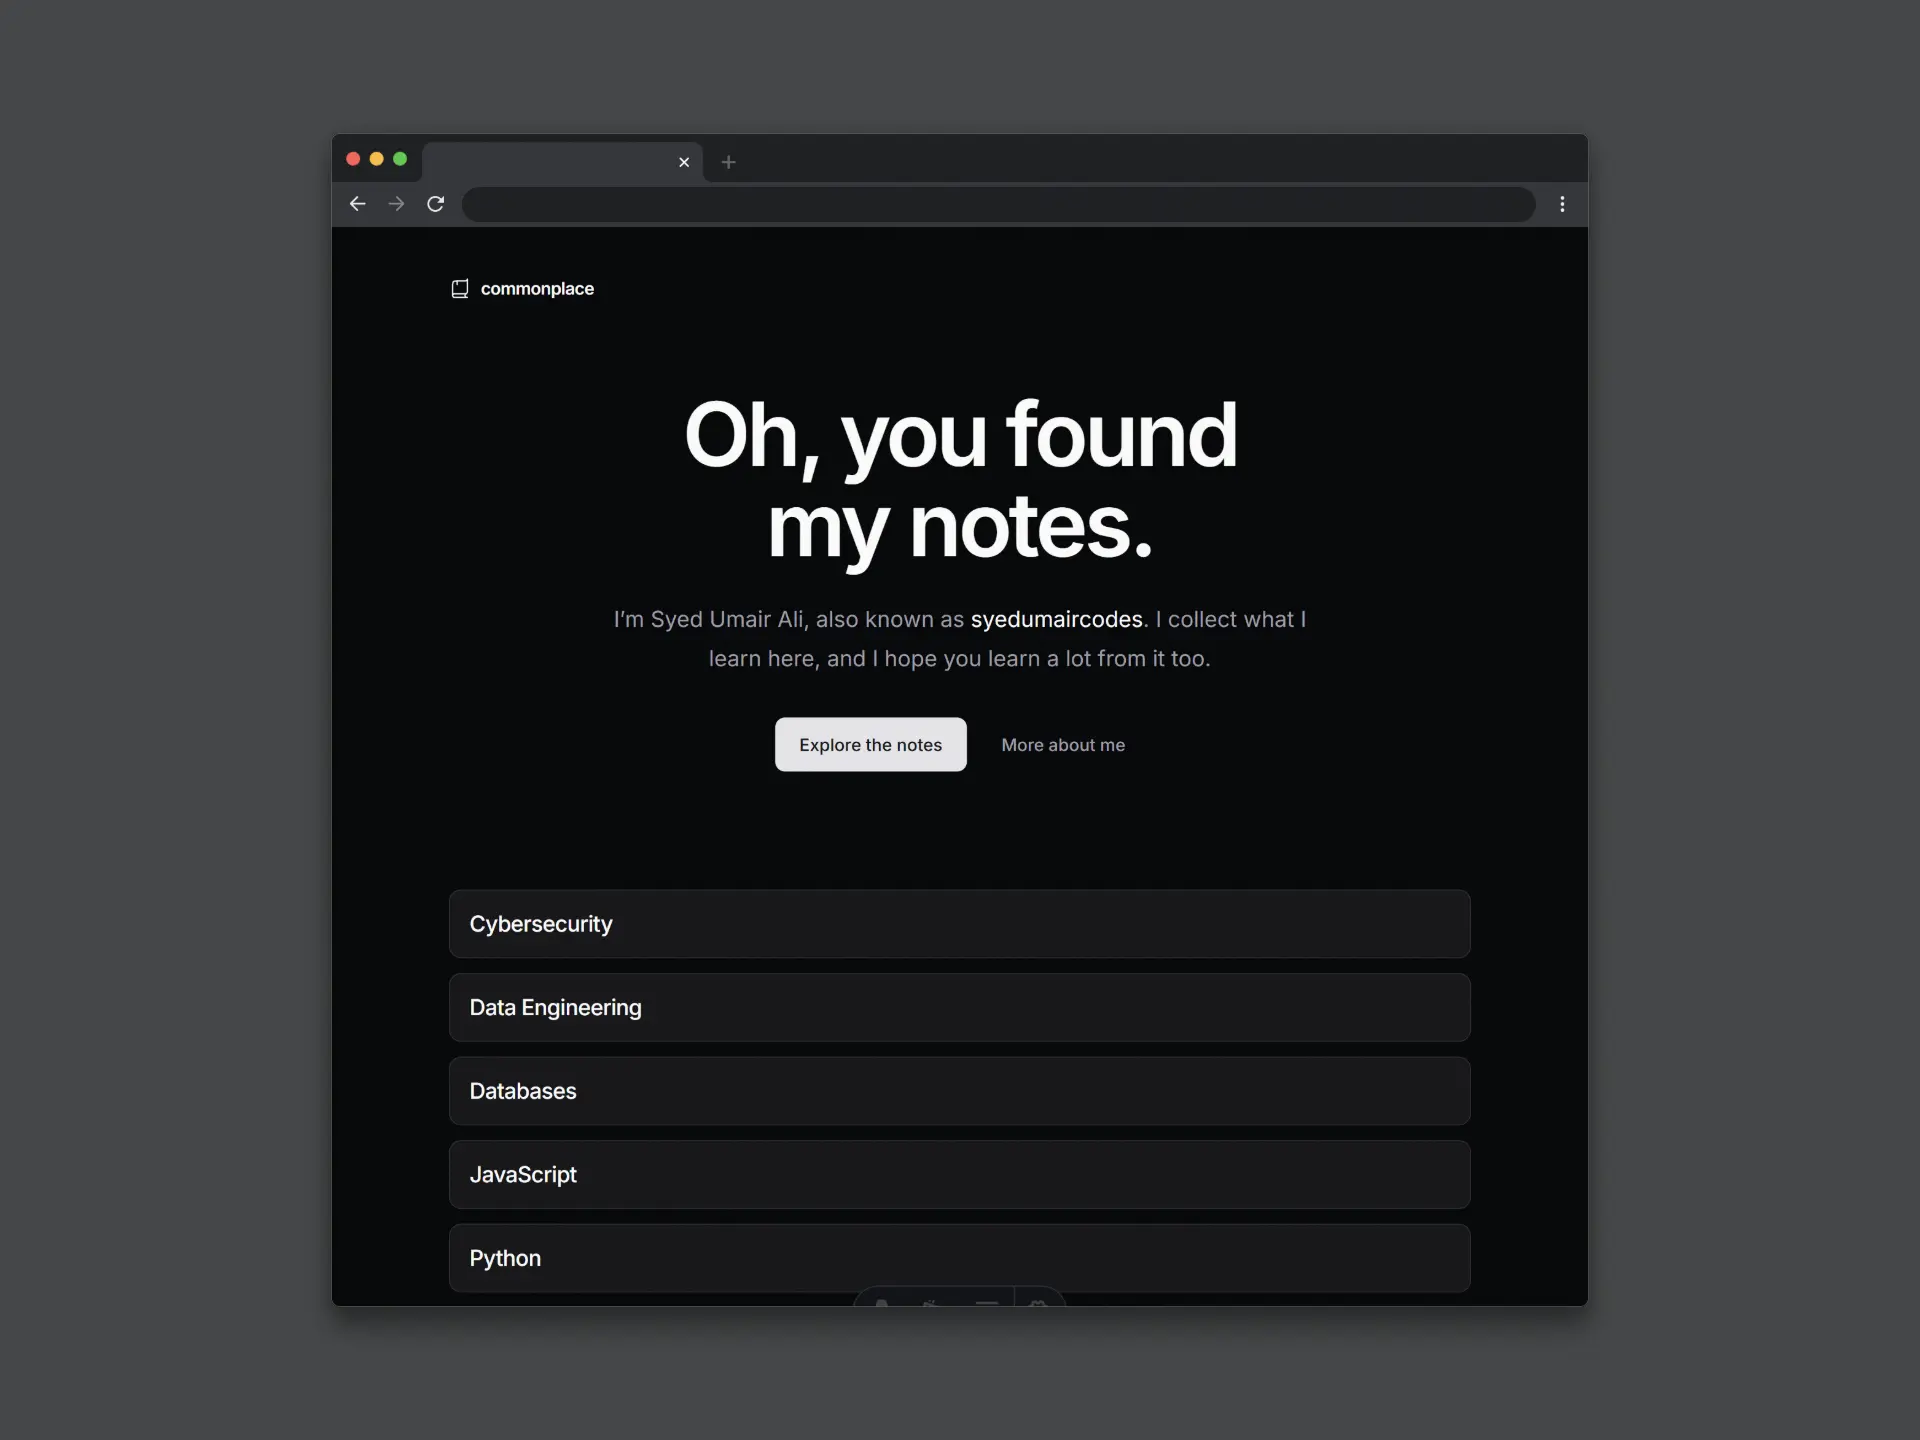
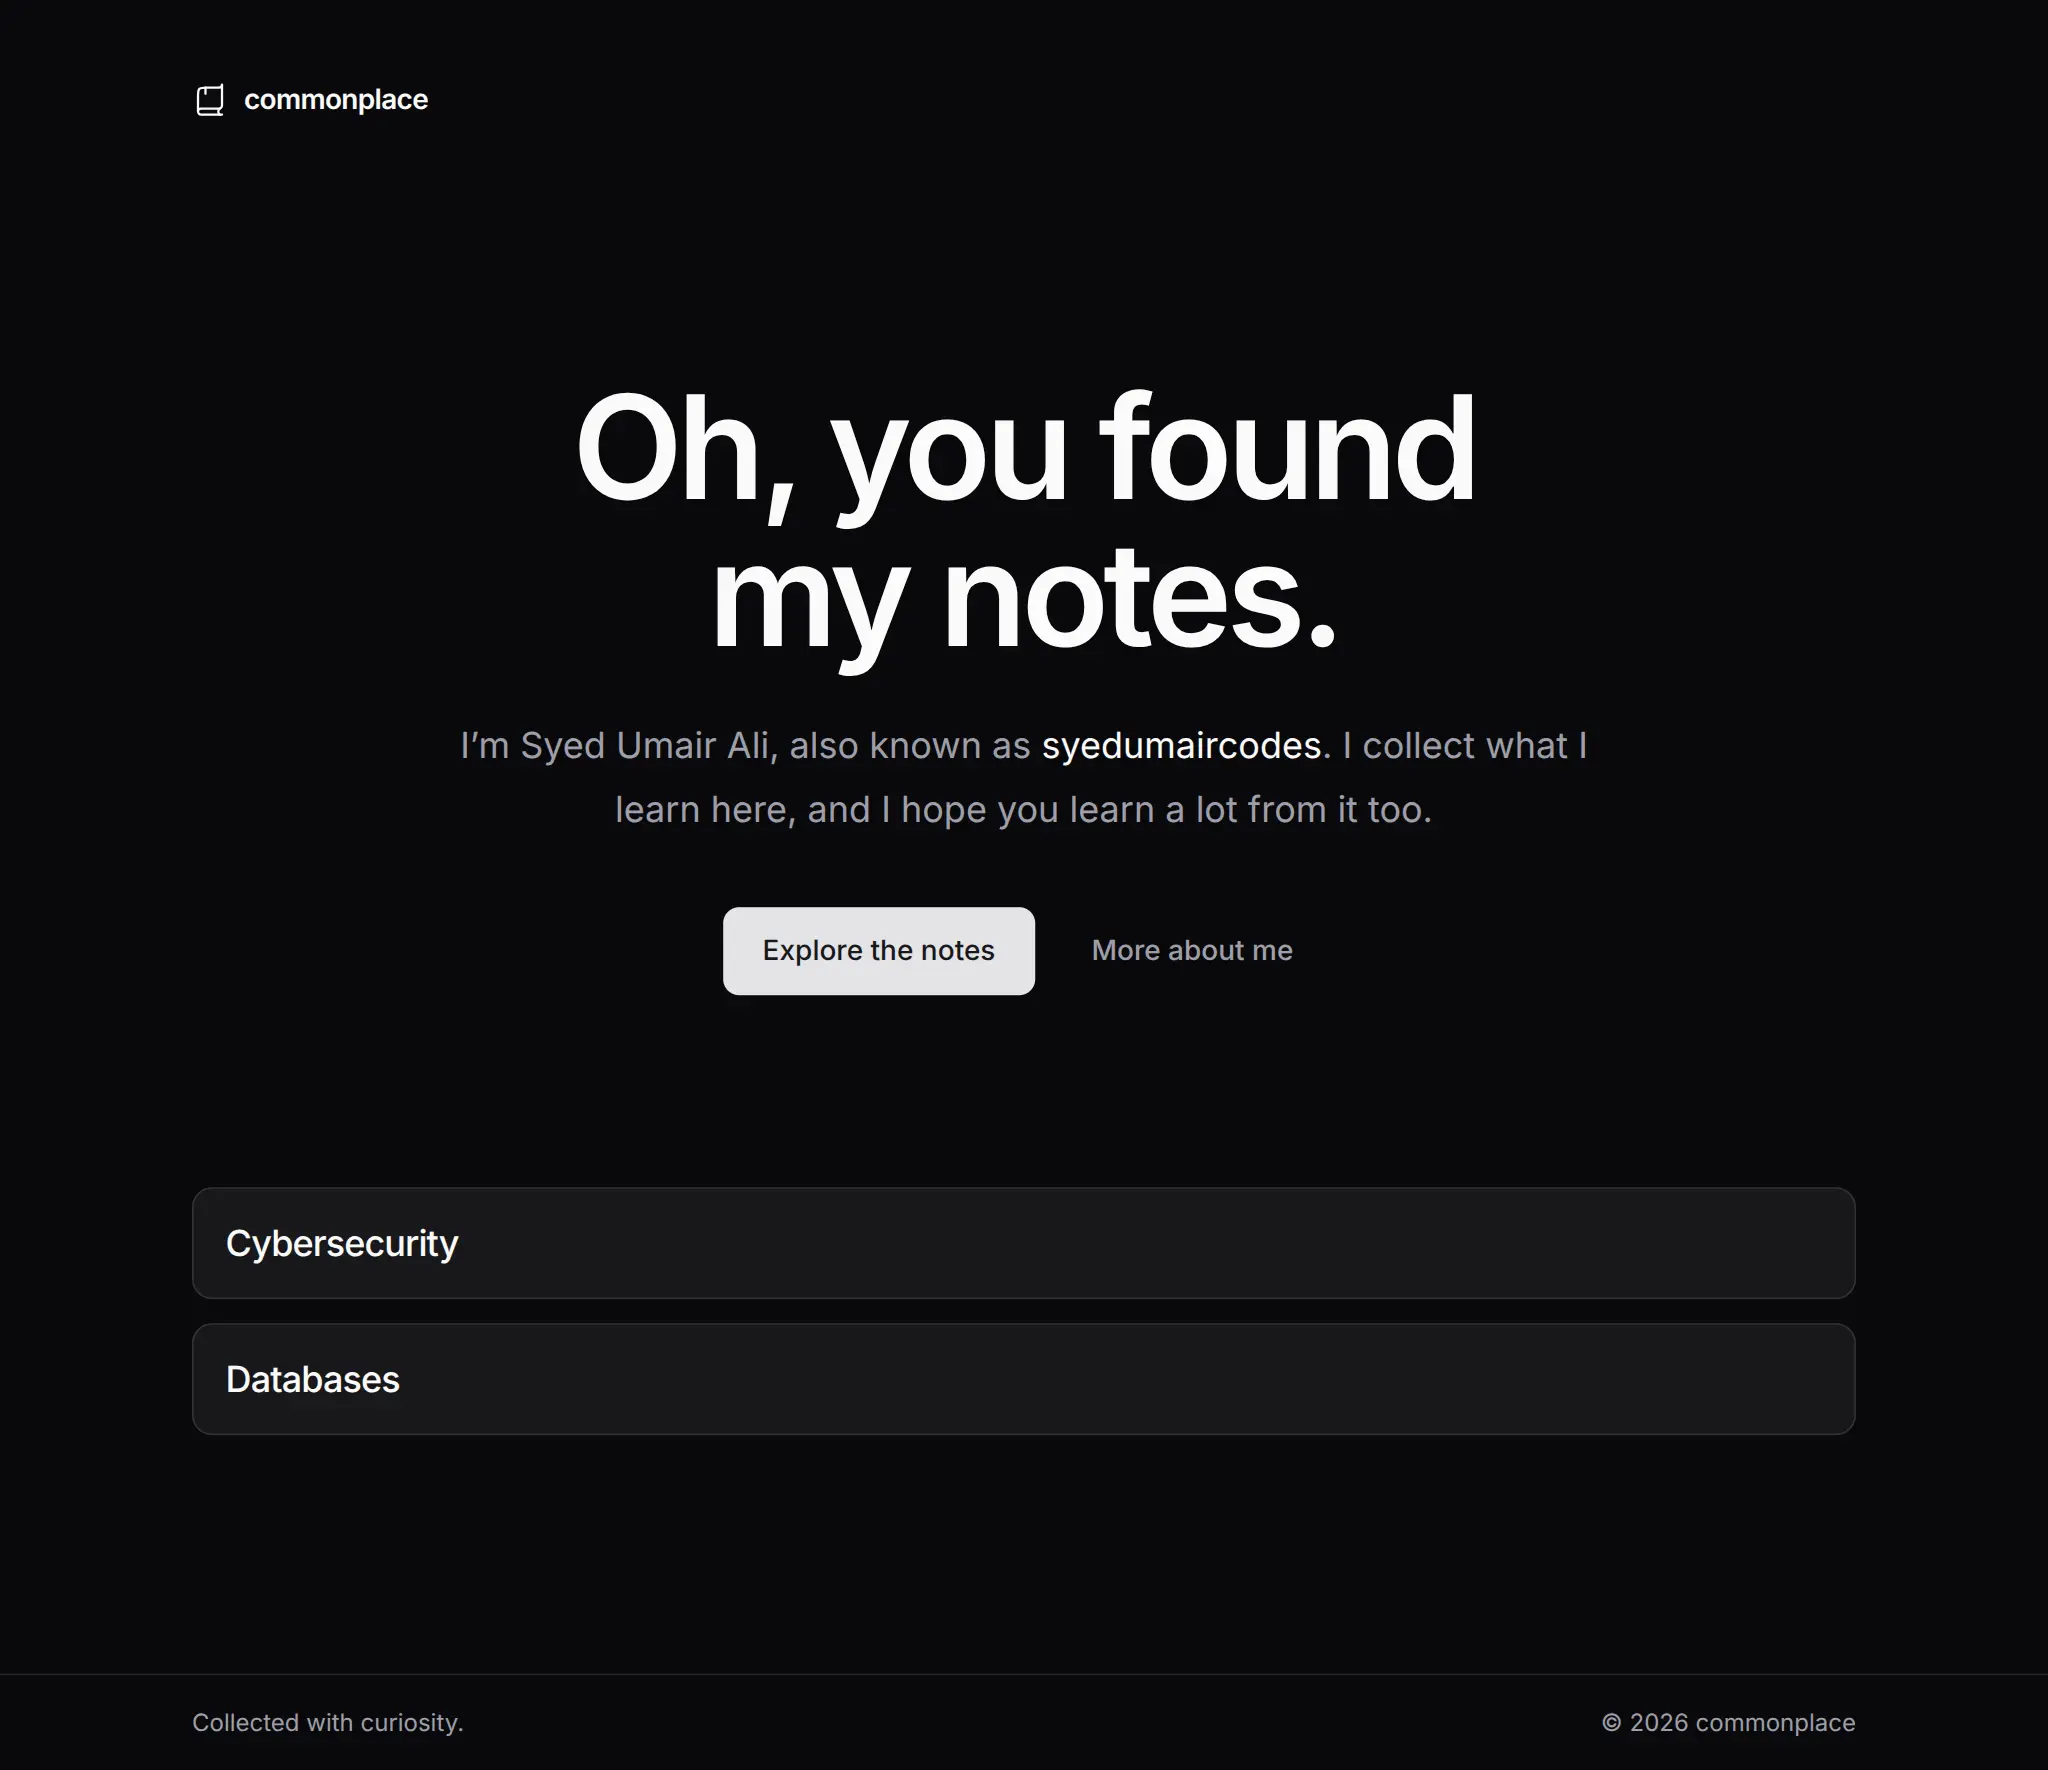
updated contact section

diff --git a/src/scripts/reveal.ts b/src/scripts/reveal.ts
@@ -1,9 +1,11 @@
 /**
- * Work section reveals.
+ * Scroll reveals.
  *
- * Each project reveals as it enters the viewport: the cover unmasks from the
- * bottom while the details stagger up behind it. One-shot — once an element
- * has been revealed it stays revealed, so scrolling back up never re-runs it.
+ * Elements marked with `data-reveal` animate in as they enter the viewport:
+ * the work section's cover unmasks from the bottom while its details stagger
+ * up, and the contact section's statement and links follow the same grammar.
+ * One-shot — once an element has been revealed it stays revealed, so
+ * scrolling back up never re-runs it.
  *
  * The check is driven by the scroll event rather than a rAF loop or an
  * IntersectionObserver. A full-bleed cover is taller than the viewport, and
@@ -15,11 +17,10 @@
 const reduced = () =>
   window.matchMedia("(prefers-reduced-motion: reduce)").matches
 
-export function initWork() {
-  const root = document.querySelector<HTMLElement>("[data-work]")
-  if (!root) return
-
-  let pending = Array.from(root.querySelectorAll<HTMLElement>("[data-reveal]"))
+export function initReveals() {
+  const pending = Array.from(
+    document.querySelectorAll<HTMLElement>("[data-reveal]")
+  )
   if (!pending.length) return
 
   const show = (element: Element) => {
@@ -43,26 +44,26 @@ export function initWork() {
     return
   }
 
+  let queue = pending
+
   const check = () => {
-    if (!pending.length) return
+    if (!queue.length) return
 
     // Reveal once an element's top edge crosses 92% of the viewport, and
     // reveal anything already scrolled past.
     const line = window.innerHeight * 0.92
     const reveal: HTMLElement[] = []
 
-    for (const element of pending) {
+    for (const element of queue) {
       const rect = element.getBoundingClientRect()
       if (rect.bottom < 0 || rect.top < line) reveal.push(element)
     }
 
     // Write after the reads, so the pass never forces a reflow mid-loop.
     reveal.forEach(show)
-    pending = pending.filter(
-      (element) => !element.classList.contains("is-visible")
-    )
+    queue = queue.filter((element) => !element.classList.contains("is-visible"))
 
-    if (!pending.length) {
+    if (!queue.length) {
       window.removeEventListener("scroll", check)
       window.removeEventListener("resize", check)
     }

diff --git a/src/styles/global.css b/src/styles/global.css
@@ -235,6 +235,55 @@
   margin-bottom: -0.14em;
 }
 
+/* ---------------------------------------------------------------------------
+   Scroll reveals.
+
+   Shared by the work and contact sections. The hidden state is gated behind
+   `html.js` so the page still renders without JavaScript, and the whole
+   sequence is instant under prefers-reduced-motion.
+--------------------------------------------------------------------------- */
+[data-reveal] {
+  transition:
+    opacity 0.9s cubic-bezier(0.16, 1, 0.3, 1),
+    transform 0.9s cubic-bezier(0.16, 1, 0.3, 1);
+  transition-delay: var(--reveal-delay, 0ms);
+}
+
+html.js [data-reveal] {
+  opacity: 0;
+  transform: translate3d(0, 24px, 0);
+}
+
+html.js [data-reveal].is-visible {
+  opacity: 1;
+  transform: none;
+}
+
+/* The cover unmasks from the bottom and settles back to scale. */
+html.js [data-reveal="media"] {
+  clip-path: inset(0% 0% 100% 0%);
+  transform: scale(1.05);
+  transition:
+    clip-path 1.2s cubic-bezier(0.16, 1, 0.3, 1),
+    transform 1.6s cubic-bezier(0.16, 1, 0.3, 1);
+}
+
+html.js [data-reveal="media"].is-visible {
+  clip-path: inset(0% 0% 0% 0%);
+  transform: scale(1);
+}
+
+/* Hairlines draw from the left. */
+[data-reveal="rule"] {
+  transform: scaleX(0);
+  transform-origin: left;
+  transition: transform 1.1s cubic-bezier(0.16, 1, 0.3, 1);
+}
+
+html.js [data-reveal="rule"].is-visible {
+  transform: scaleX(1);
+}
+
 /* Lenis drives the scroll; the browser's own smooth scrolling would fight it. */
 html.lenis,
 html.lenis body {
